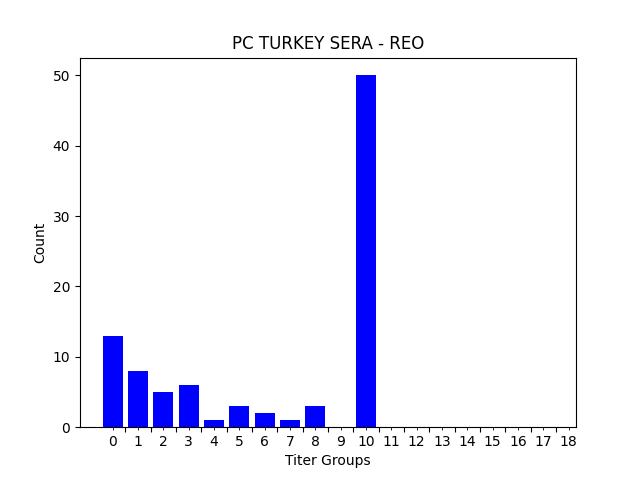
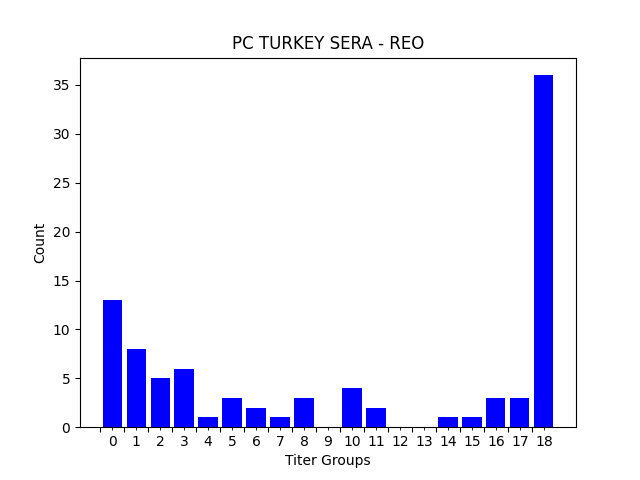
Fixed bin 18 bug

diff --git a/main.py b/main.py
@@ -101,6 +101,7 @@ def main():
             ods.append(vals[k])
 
     for j in ods:
+
         titer = calcTiter(calcSP(j, NC, PC))
         if(titer == 0):
             titerGroup.append(0)
@@ -122,11 +123,30 @@ def main():
             titerGroup.append(8)
         elif(titer < 9000):
             titerGroup.append(9)
+        elif(titer < 10000):
+            titerGroup.append(10) 
+        elif(titer < 11000):
+            titerGroup.append(11)  
+        elif(titer < 12000):
+            titerGroup.append(12)  
+        elif(titer < 13000):
+            titerGroup.append(13)  
+        elif(titer < 14000):
+            titerGroup.append(14)  
+        elif(titer < 15000):
+            titerGroup.append(15)  
+        elif(titer < 16000):
+            titerGroup.append(16)  
+        elif(titer < 17000):
+            titerGroup.append(17)  
         else:
-            titerGroup.append(10)    
+            titerGroup.append(18)
 
-    r = (0, 18)
-    bins = 18  
+    
+
+
+    r = (0, 19)
+    bins = 19  
 
     plt.hist(titerGroup, bins, r, color = 'blue',
             histtype = 'bar', rwidth = 0.8)
@@ -139,7 +159,7 @@ def main():
     ax = plt.subplot()
 
     #I know, I know. But theres no support for range()
-    plt.xticks([1,2,3,4,5,6,7,8,9,10,11,12,13,14,15,16,17,18])
+    plt.xticks([0,1,2,3,4,5,6,7,8,9,10,11,12,13,14,15,16,17,18])
     ax.set_xticklabels('')
 
     ax.set_xticks([0.5,1.5,2.5,3.5,4.5,5.5,6.5,7.5,8.5,9.5,10.5,11.5,12.5,13.5,14.5,15.5,16.5,17.5,18.5],      minor=True)
